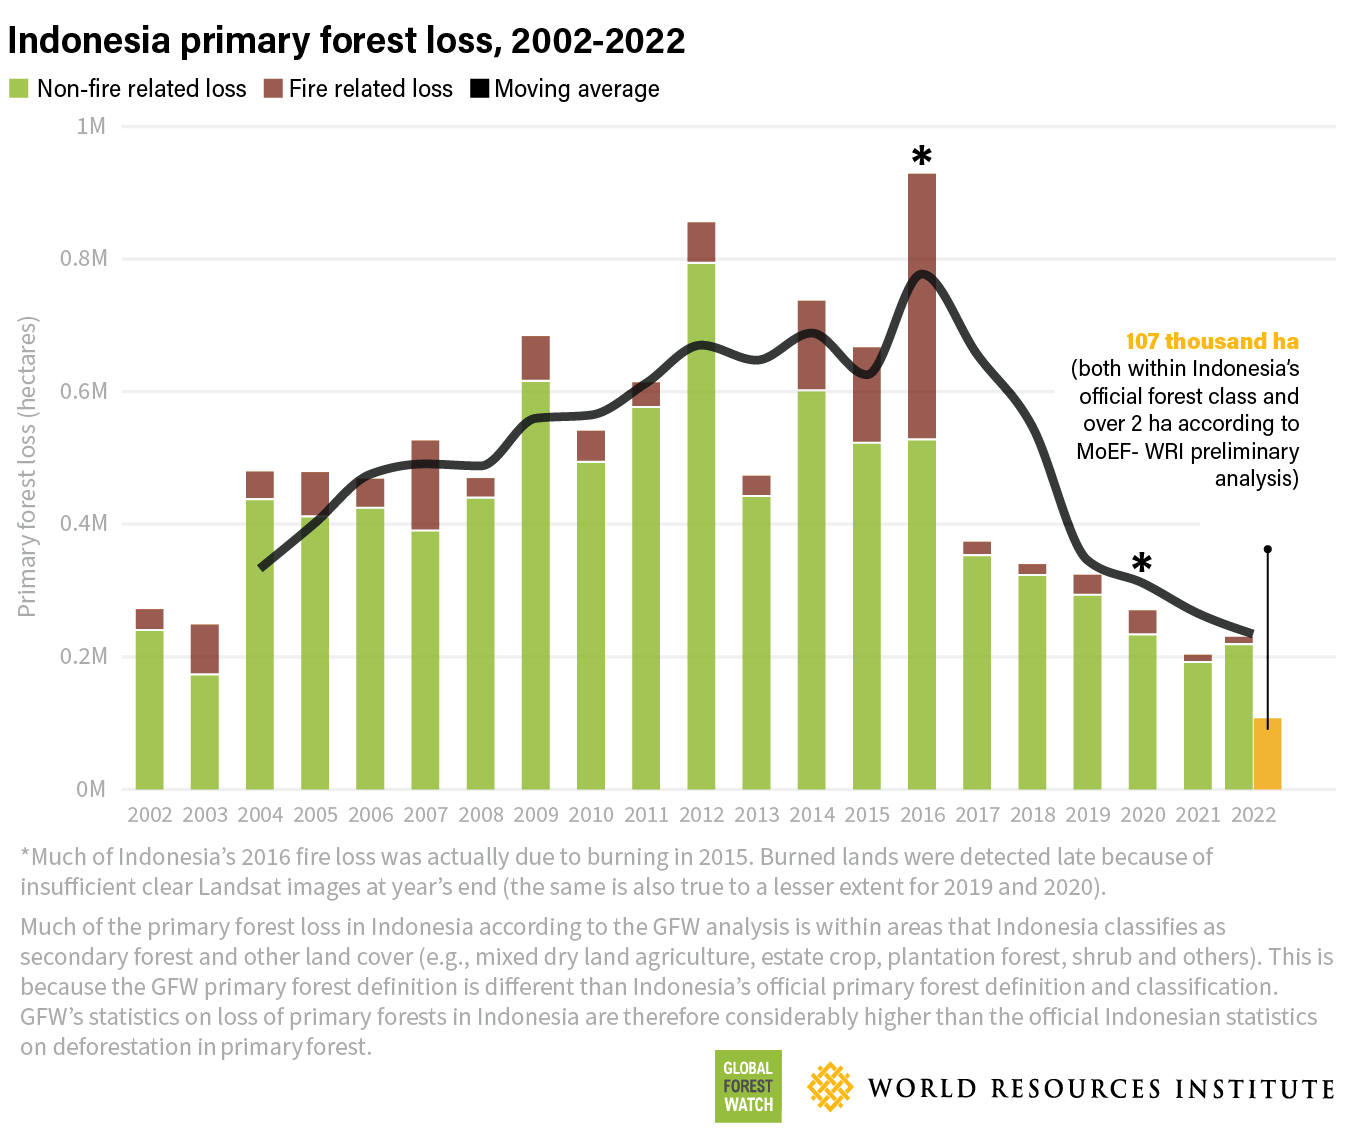
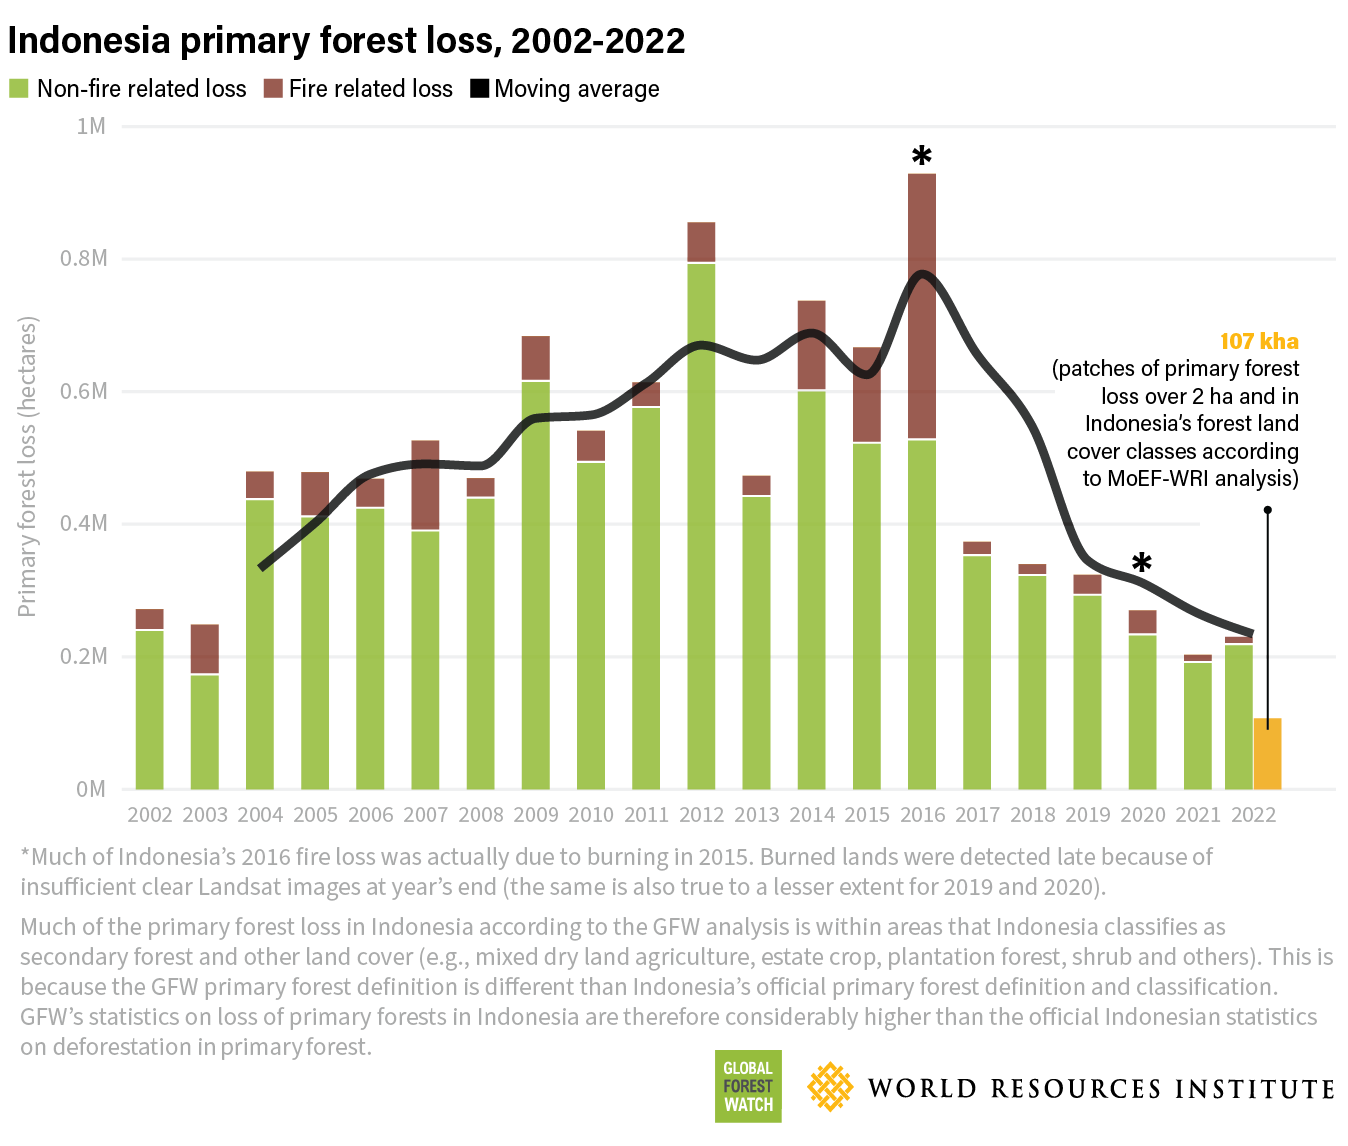
chore(dashboard): update image and bold text

Changed region(s): [[0.7789, 0.2749, 0.9659, 0.4276]]

diff --git a/layouts/dashboards/components/header/component.jsx b/layouts/dashboards/components/header/component.jsx
@@ -240,7 +240,7 @@ class Header extends PureComponent {
 
     if (location && location.adm0 === 'IDN') {
       displaySentence.sentence +=
-        ' 107 kha of this loss was found to be within Indonesia’s official forest land cover classes and with a patch size larger than two hectares.';
+        ' <b>107 kha</b> of this loss was found to be within Indonesia’s official forest land cover classes and with a patch size larger than two hectares according to MoEF-WRI analysis.';
     }
 
     const countrySelectorData = this.getCountrySelectorData();

diff --git a/components/widgets/forest-change/tree-loss-primary/index.js b/components/widgets/forest-change/tree-loss-primary/index.js
@@ -113,7 +113,7 @@ export default {
     forestType: 'primary_forest',
   },
   whitelists: {
-    adm0: [tropicalIsos],
+    adm0: tropicalIsos,
   },
   placeholderImageURL: indonesiaPlaceholder,
   getData: (params = {}) => {
